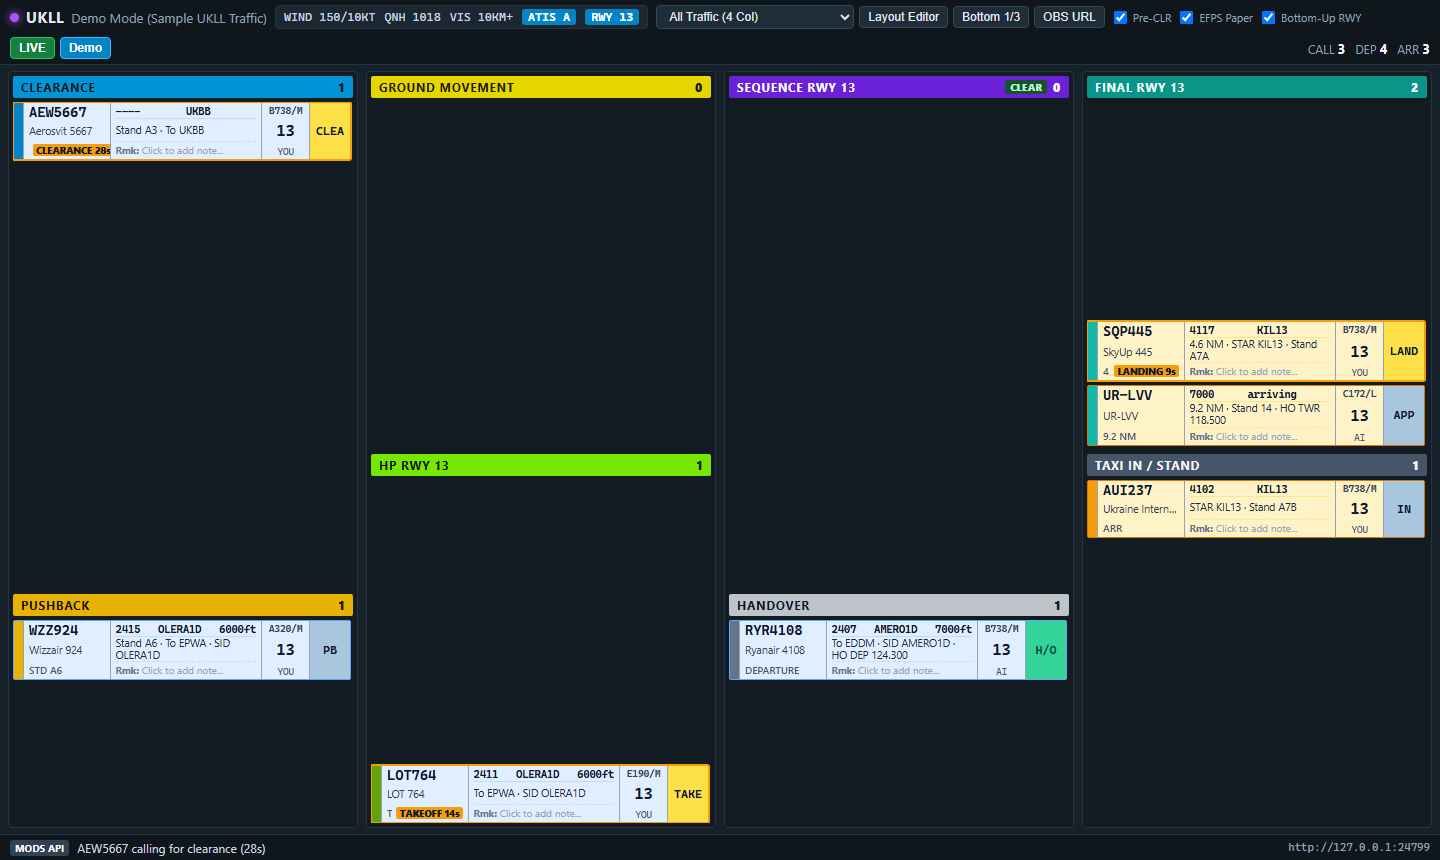
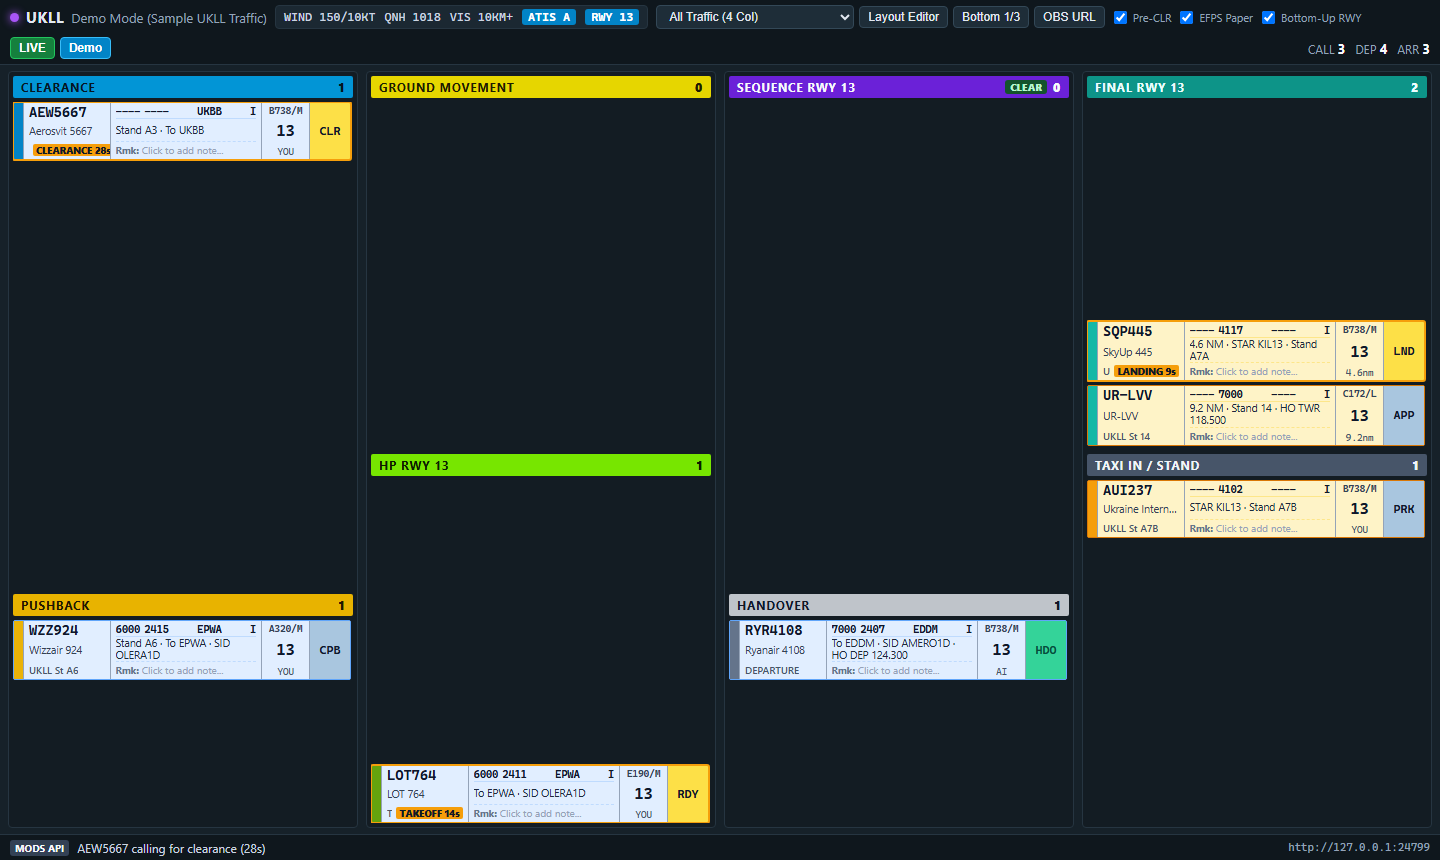
Update landing page and demo screenshots with standard ATC terminology

diff --git a/docs/index.html b/docs/index.html
@@ -312,7 +312,7 @@
         </div>
         <div class="feat">
           <h4>Runway Occupancy Alert (OCC)</h4>
-          <p>The <code>SEQUENCE RWY</code> header switches between green <code>CLEAR</code> and flashing red <code>OCCUPIED</code> whenever traffic is lining up, rolling, or landed.</p>
+          <p>The <code>SEQUENCE RWY</code> header switches between green <code>CLEAR</code> and flashing red <code>OCC · CALLSIGN</code> whenever traffic is lining up, rolling, or landed.</p>
         </div>
         <div class="feat">
           <h4>8 Position Presets + Layout Editor</h4>
@@ -403,11 +403,11 @@
                 <span id="demoPin" style="display:none;font-size:12px;">📌</span>
               </div>
               <div class="ds-sub">Aerosvit 5667</div>
-              <div class="ds-sub mono" style="font-size:10px;color:#475569;">STD A3</div>
+              <div class="ds-sub mono" style="font-size:10px;color:#475569;">UKLL St A3</div>
             </div>
             <div class="ds-blk">
               <div class="ds-meta mono">
-                <span>2415</span><span>UKBB</span><span>6000ft</span>
+                <span>6000</span><span>2415</span><span>UKBB</span><span>I</span>
               </div>
               <div class="ds-route">Stand A3 · To UKBB · SID OLERA1D</div>
               <div id="demoRmkWrap" class="ds-rmk" title="Click to type inline note">
@@ -420,7 +420,7 @@
               <span style="font-size:16px;font-weight:800;">13</span>
               <span style="font-size:9.5px;color:#475569;">YOU</span>
             </div>
-            <button id="demoAct" class="ds-act mono" title="Advance to next bay">CLX</button>
+            <button id="demoAct" class="ds-act mono" title="Advance to next bay">CLR</button>
           </div>
 
           <div class="sandbox-ctrl">
@@ -524,10 +524,10 @@ start.bat</pre>
       lb.addEventListener("click", () => lb.classList.remove("open"));
 
       const STAGES = [
-        { name: "CLEARANCE", bg: "#0295d6", ink: "#051622", acc: "#0284c7", code: "CLX" },
-        { name: "PUSHBACK", bg: "#e8b300", ink: "#1f1700", acc: "#eab308", code: "PB" },
+        { name: "CLEARANCE", bg: "#0295d6", ink: "#051622", acc: "#0284c7", code: "CLR" },
+        { name: "PUSHBACK", bg: "#e8b300", ink: "#1f1700", acc: "#eab308", code: "CPB" },
         { name: "GROUND MOVEMENT", bg: "#e6d600", ink: "#1f1d00", acc: "#f59e0b", code: "TXI" },
-        { name: "HP RWY 13", bg: "#77e600", ink: "#0b1c00", acc: "#65a30d", code: "H/S" },
+        { name: "HP RWY 13", bg: "#77e600", ink: "#0b1c00", acc: "#65a30d", code: "RDY" },
       ];
       let viewIdx = 0;
       let rmkText = "";
